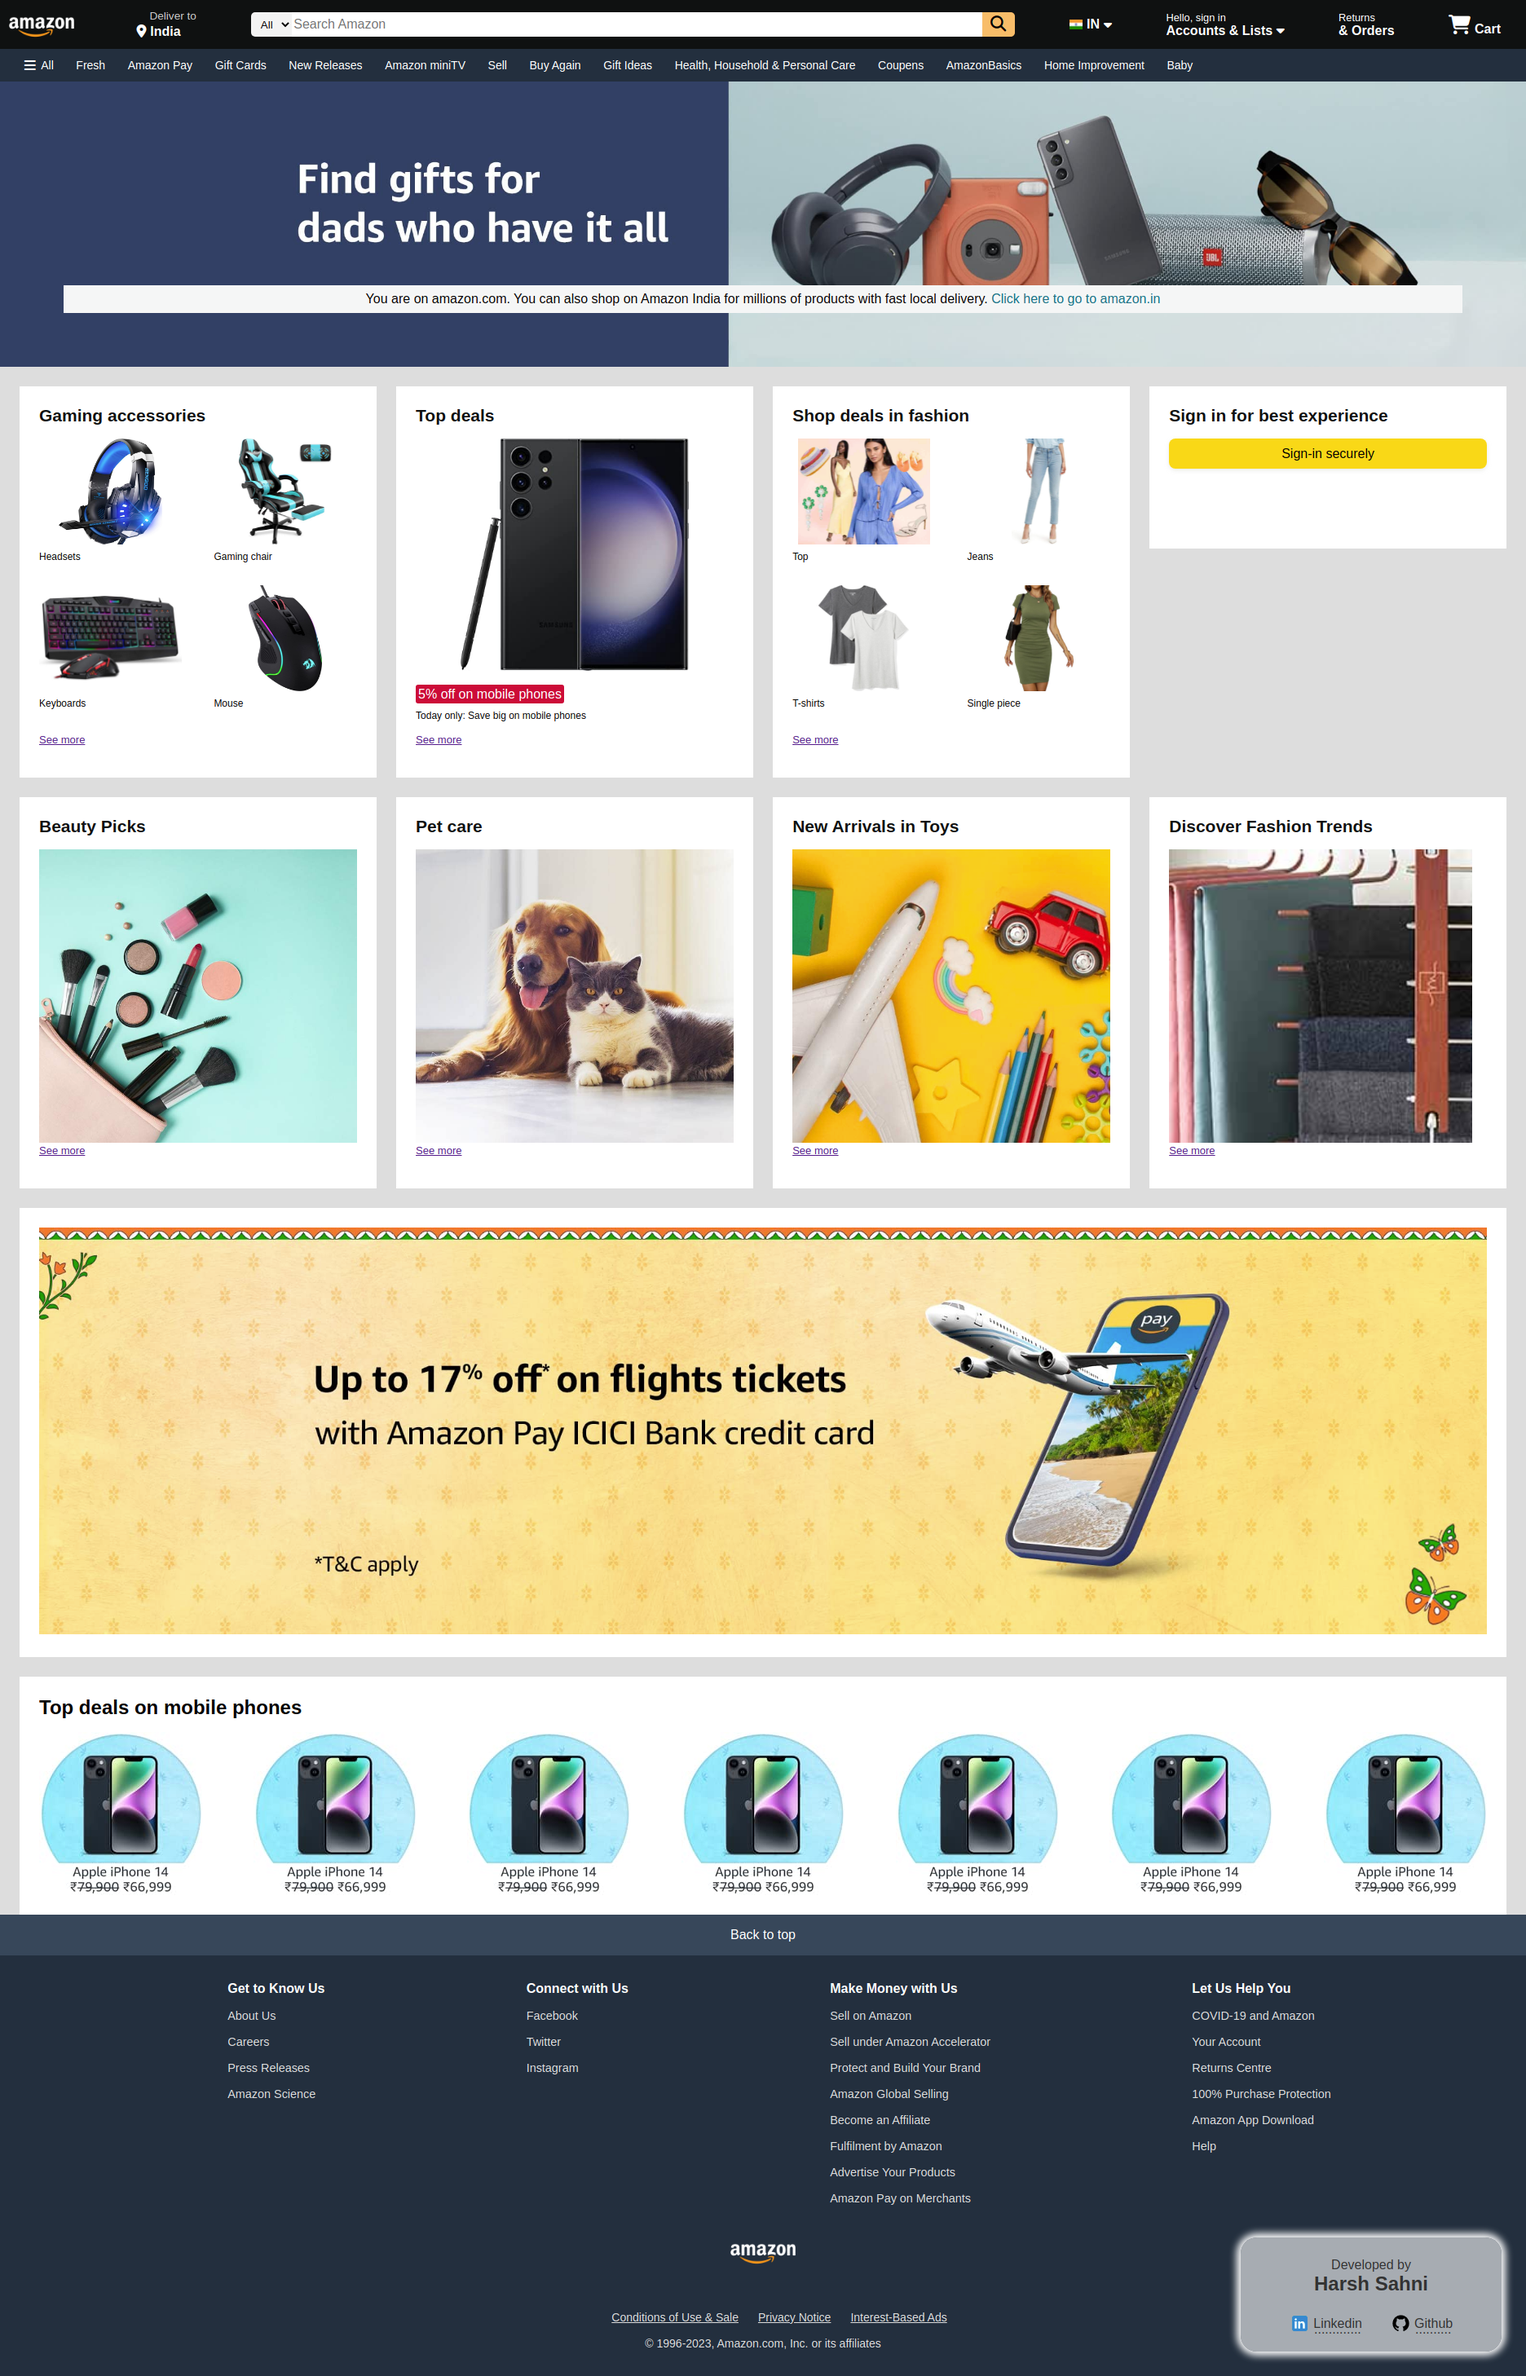
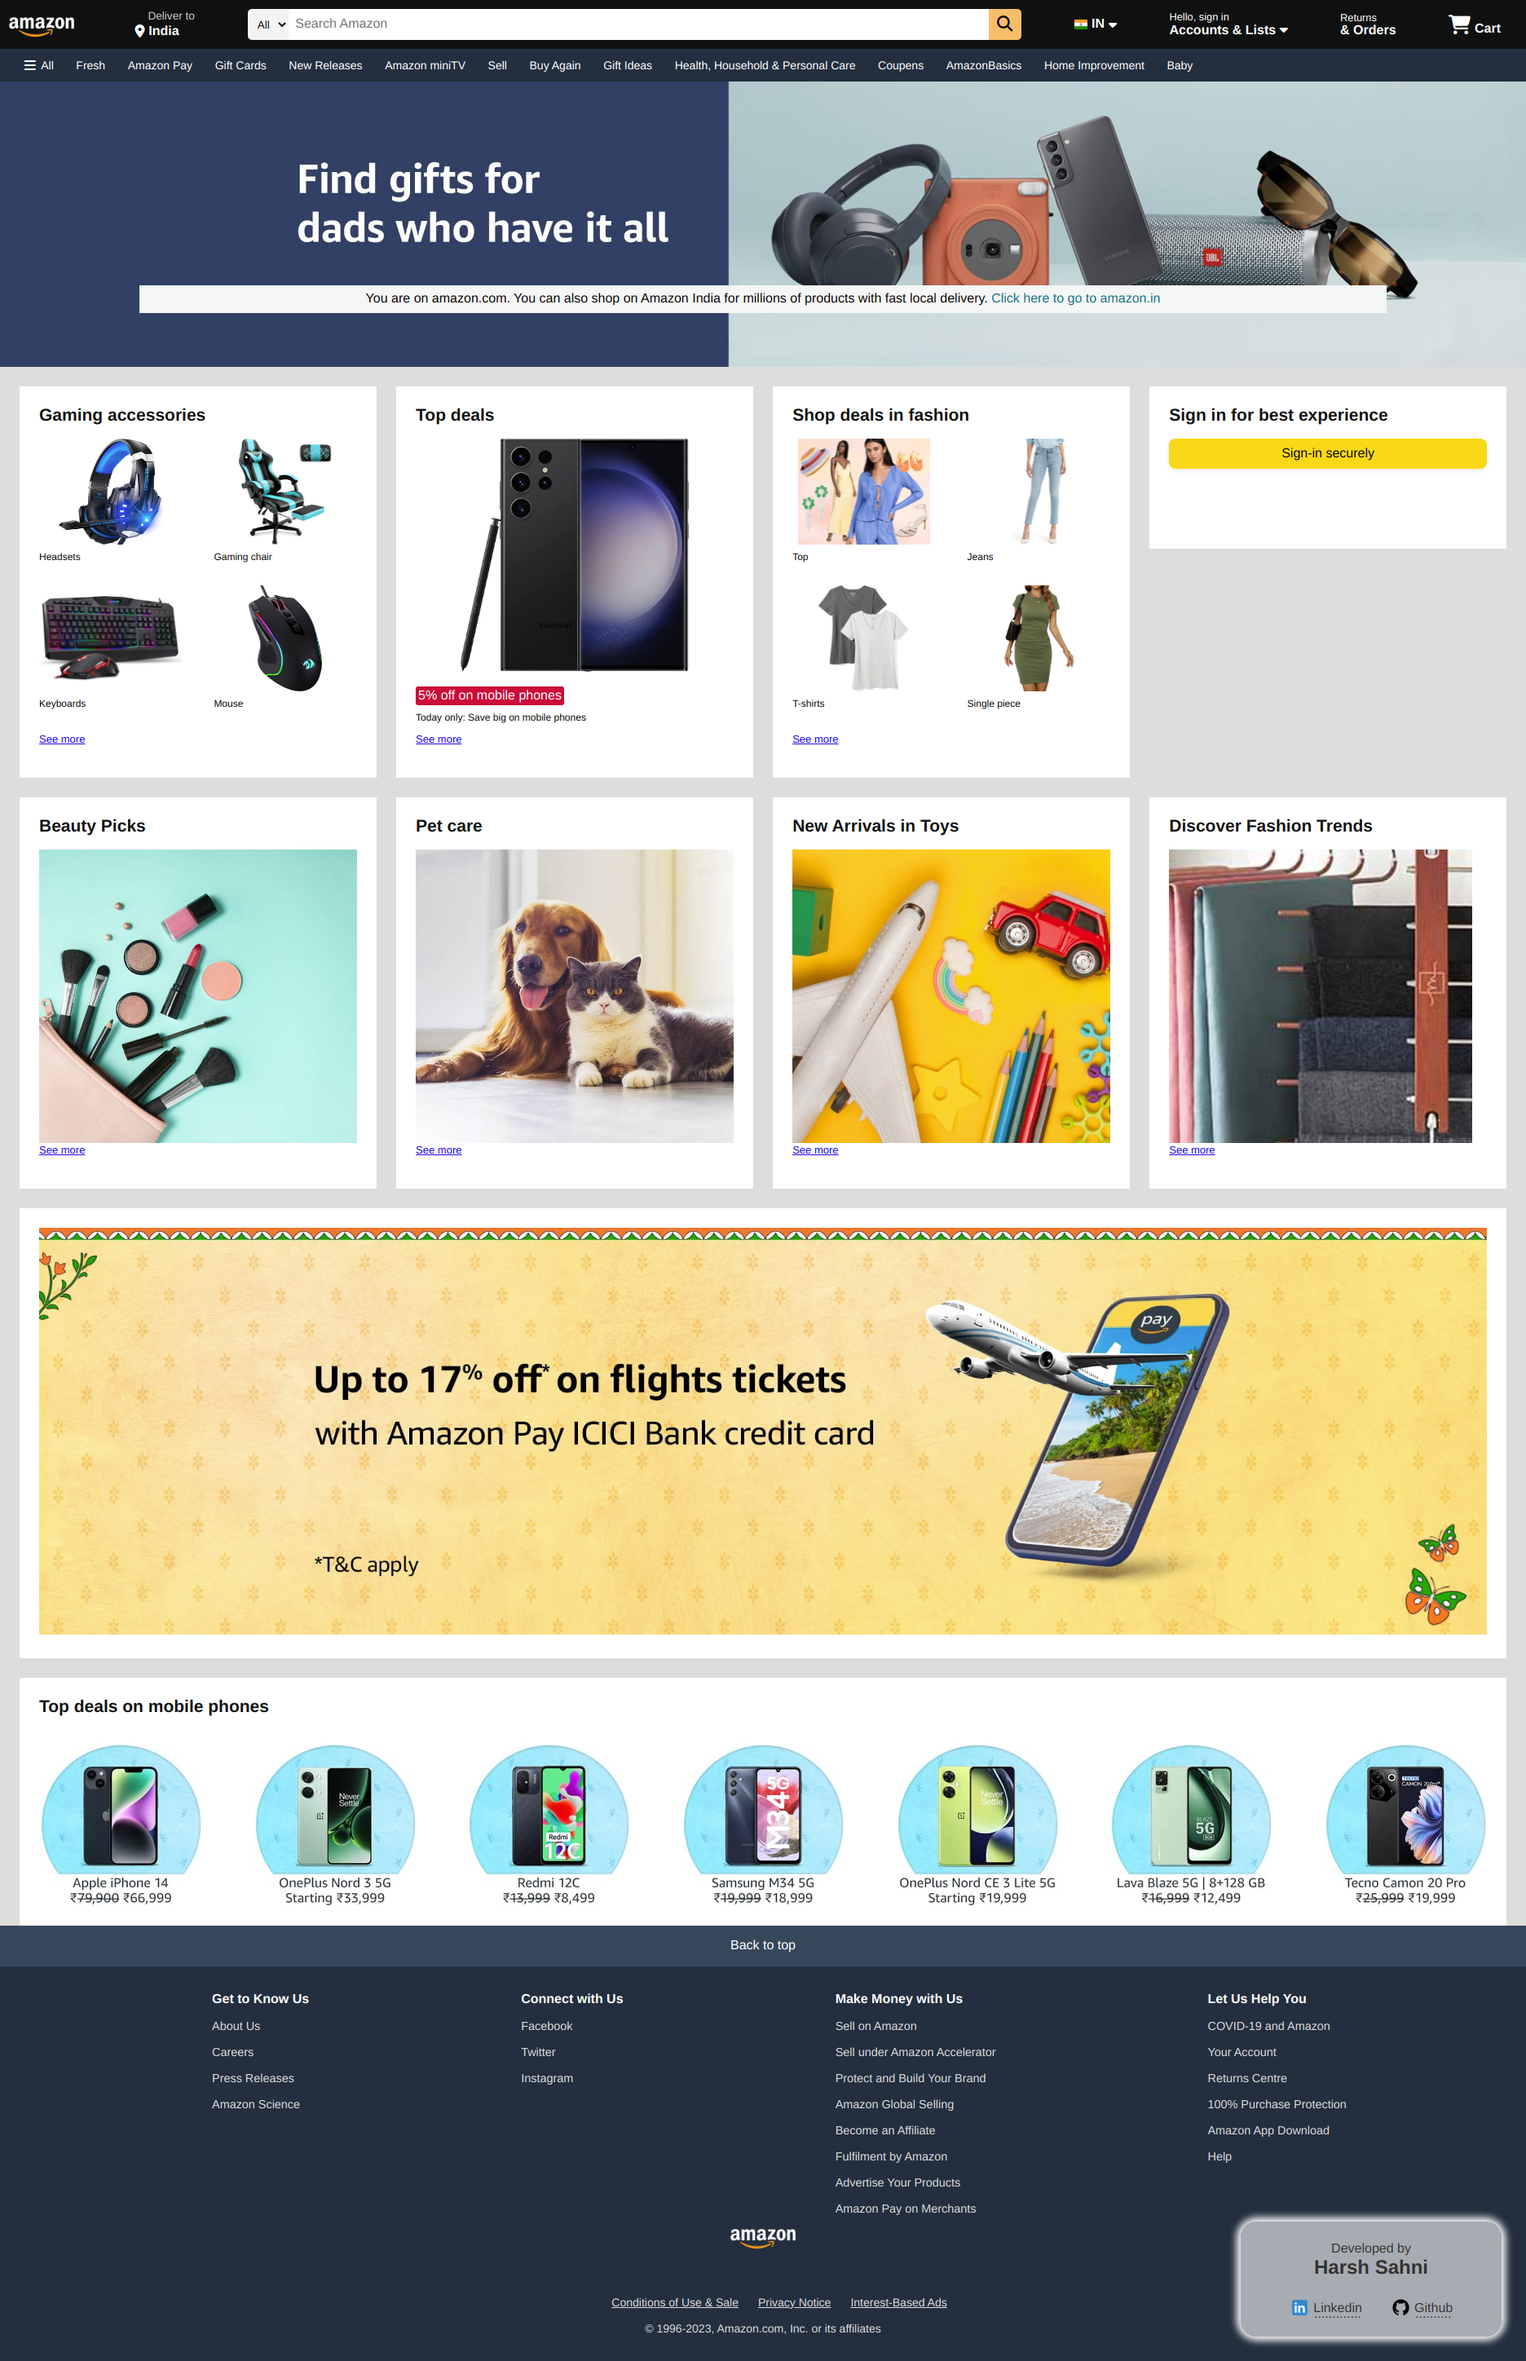
minor changes

diff --git a/index.html b/index.html
@@ -298,17 +298,7 @@
 
 	<div class="credits-container hidden">
 		<credits>Developed by</credits>
-		<name>Harsh Sahni</name>
-		<socials>
-			<linkedin>
-				<svg class="social-icon" xmlns="http://www.w3.org/2000/svg"  viewBox="0 0 48 48" width="48px" height="48px"><path fill="#0288D1" d="M42,37c0,2.762-2.238,5-5,5H11c-2.761,0-5-2.238-5-5V11c0-2.762,2.239-5,5-5h26c2.762,0,5,2.238,5,5V37z"/><path fill="#FFF" d="M12 19H17V36H12zM14.485 17h-.028C12.965 17 12 15.888 12 14.499 12 13.08 12.995 12 14.514 12c1.521 0 2.458 1.08 2.486 2.499C17 15.887 16.035 17 14.485 17zM36 36h-5v-9.099c0-2.198-1.225-3.698-3.192-3.698-1.501 0-2.313 1.012-2.707 1.99C24.957 25.543 25 26.511 25 27v9h-5V19h5v2.616C25.721 20.5 26.85 19 29.738 19c3.578 0 6.261 2.25 6.261 7.274L36 36 36 36z"/></svg>
-				<a href="https://www.linkedin.com/in/harsh-sahni" target="_blank" rel="noopener noreferrer">Linkedin</a>
-			</linkedin>
-			<github>
-				<svg class="social-icon" xmlns="http://www.w3.org/2000/svg"  viewBox="0 0 64 64" width="64px" height="64px"><path d="M32 6C17.641 6 6 17.641 6 32c0 12.277 8.512 22.56 19.955 25.286-.592-.141-1.179-.299-1.755-.479V50.85c0 0-.975.325-2.275.325-3.637 0-5.148-3.245-5.525-4.875-.229-.993-.827-1.934-1.469-2.509-.767-.684-1.126-.686-1.131-.92-.01-.491.658-.471.975-.471 1.625 0 2.857 1.729 3.429 2.623 1.417 2.207 2.938 2.577 3.721 2.577.975 0 1.817-.146 2.397-.426.268-1.888 1.108-3.57 2.478-4.774-6.097-1.219-10.4-4.716-10.4-10.4 0-2.928 1.175-5.619 3.133-7.792C19.333 23.641 19 22.494 19 20.625c0-1.235.086-2.751.65-4.225 0 0 3.708.026 7.205 3.338C28.469 19.268 30.196 19 32 19s3.531.268 5.145.738c3.497-3.312 7.205-3.338 7.205-3.338.567 1.474.65 2.99.65 4.225 0 2.015-.268 3.19-.432 3.697C46.466 26.475 47.6 29.124 47.6 32c0 5.684-4.303 9.181-10.4 10.4 1.628 1.43 2.6 3.513 2.6 5.85v8.557c-.576.181-1.162.338-1.755.479C49.488 54.56 58 44.277 58 32 58 17.641 46.359 6 32 6zM33.813 57.93C33.214 57.972 32.61 58 32 58 32.61 58 33.213 57.971 33.813 57.93zM37.786 57.346c-1.164.265-2.357.451-3.575.554C35.429 57.797 36.622 57.61 37.786 57.346zM32 58c-.61 0-1.214-.028-1.813-.07C30.787 57.971 31.39 58 32 58zM29.788 57.9c-1.217-.103-2.411-.289-3.574-.554C27.378 57.61 28.571 57.797 29.788 57.9z"/></svg>
-				<a href="https://www.github.com/harsh-sahni-projects" target="_blank" rel="noopener noreferrer">Github</a>
-			</github>
-		</socials>
+		<name>Harsh</name>
 	</div>
 		
 </body>
